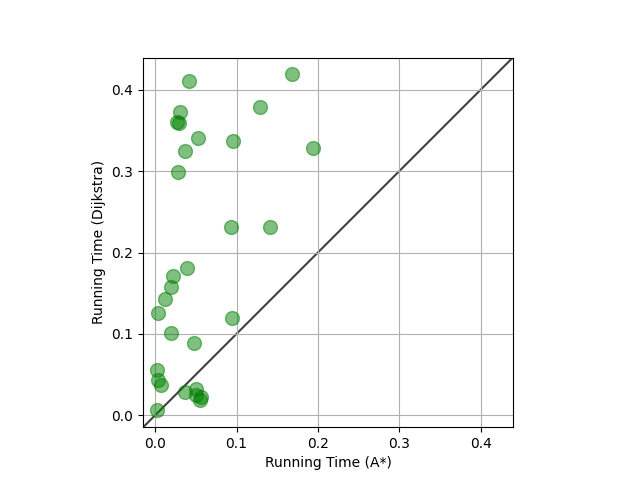
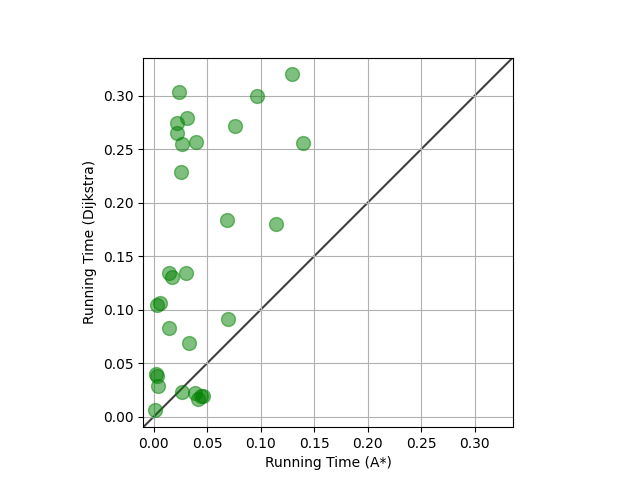
casual commit

diff --git a/main.py b/main.py
@@ -54,7 +54,7 @@ def main():
     def Astar(start, goal):
 
         OpenArr = [[0, start]]
-        ClosedArr = {State(start.get_x(), start.get_y()).state_hash(): [start, 0]}
+        ClosedArr = {start.state_hash(): [start, 0]}
 
         while OpenArr:
             node_g, node = heapq.heappop(OpenArr)
@@ -67,13 +67,12 @@ def main():
                 child_h = OctileDistance(childNode.get_x(), childNode.get_y(), goal)
 
                 if childNode.state_hash() not in ClosedArr:
-                    heapq.heappush(OpenArr, [child_g+child_h, childNode])  # OpenList
-                    ClosedArr[childNode.state_hash()] = [childNode, child_g+child_h]  # ClosedList
+                    heapq.heappush(OpenArr, [child_g + child_h, childNode])  # OpenList
+                    ClosedArr[childNode.state_hash()] = [childNode, child_g + child_h]  # ClosedList
 
-                if childNode.state_hash() in ClosedArr and child_g+child_h < ClosedArr[childNode.state_hash()][1]:
-                    ClosedArr[childNode.state_hash()][1] = child_g+child_h
-                    heapq.heappush(OpenArr, [child_g+child_h, childNode])
-                    childNode.set_g(child_g)
+                elif child_g + child_h < ClosedArr[childNode.state_hash()][1]:
+                    ClosedArr[childNode.state_hash()][1] = child_g + child_h
+                    heapq.heappush(OpenArr, [child_g + child_h, childNode])
 
         return -1, -1
 
@@ -121,13 +120,11 @@ def main():
         else:
             print('Dj Time', time_end - time_start)
 
-
-
         start = start_states[i]
         goal = goal_states[i]
 
         time_start = time.time()
-        cost, expanded_astar = Astar(start, goal) # replace None, None with the call to your A* implementation
+        cost, expanded_astar = Astar(start, goal)  # replace None, None with the call to your A* implementation
         time_end = time.time()
 
         nodes_expanded_astar.append(expanded_astar)
@@ -141,7 +138,7 @@ def main():
             print("Solution cost expected: ", solution_costs[i])
             print()
         else:
-            print('astar Time', time_end - time_start)
+            print('Astar Time', time_end - time_start)
 
     if plots:
         from search.plot_results import PlotResults

diff --git a/test.py b/test.py
@@ -53,7 +53,7 @@ def main():
 
     def Astar(start, goal):
 
-        OpenArr = [[0, start]]
+        OpenArr = [(0, start)]
         ClosedArr = {start.state_hash(): [start, 0]}
 
         while OpenArr:
@@ -67,17 +67,17 @@ def main():
                 child_h = OctileDistance(childNode.get_x(), childNode.get_y(), goal)
 
                 if childNode.state_hash() not in ClosedArr:
-                    heapq.heappush(OpenArr, [child_g + child_h, childNode])  # OpenList
+                    heapq.heappush(OpenArr, (child_g + child_h, childNode))  # OpenList
                     ClosedArr[childNode.state_hash()] = [childNode, child_g + child_h]  # ClosedList
 
                 elif child_g + child_h < ClosedArr[childNode.state_hash()][1]:
                     ClosedArr[childNode.state_hash()][1] = child_g + child_h
-                    heapq.heappush(OpenArr, [child_g + child_h, childNode])
+                    heapq.heappush(OpenArr, (child_g + child_h, childNode))
 
         return -1, -1
 
     def Dijkstra(start, goal):
-        OpenArr = [[0, start]]
+        OpenArr = [(0, start)]
         ClosedArr = {start.state_hash(): [start, 0]}
 
         while OpenArr:
@@ -90,12 +90,12 @@ def main():
                 child_g = childNode.get_g()
 
                 if childNode.state_hash() not in ClosedArr:
-                    heapq.heappush(OpenArr, [child_g, childNode])  # OpenList
+                    heapq.heappush(OpenArr, (child_g, childNode))  # OpenList
                     ClosedArr[childNode.state_hash()] = [childNode, child_g]  # ClosedList
 
                 elif child_g < ClosedArr[childNode.state_hash()][1]:
                     ClosedArr[childNode.state_hash()][1] = child_g
-                    heapq.heappush(OpenArr, [child_g, childNode])
+                    heapq.heappush(OpenArr, (child_g, childNode))
 
         return -1, -1
 
